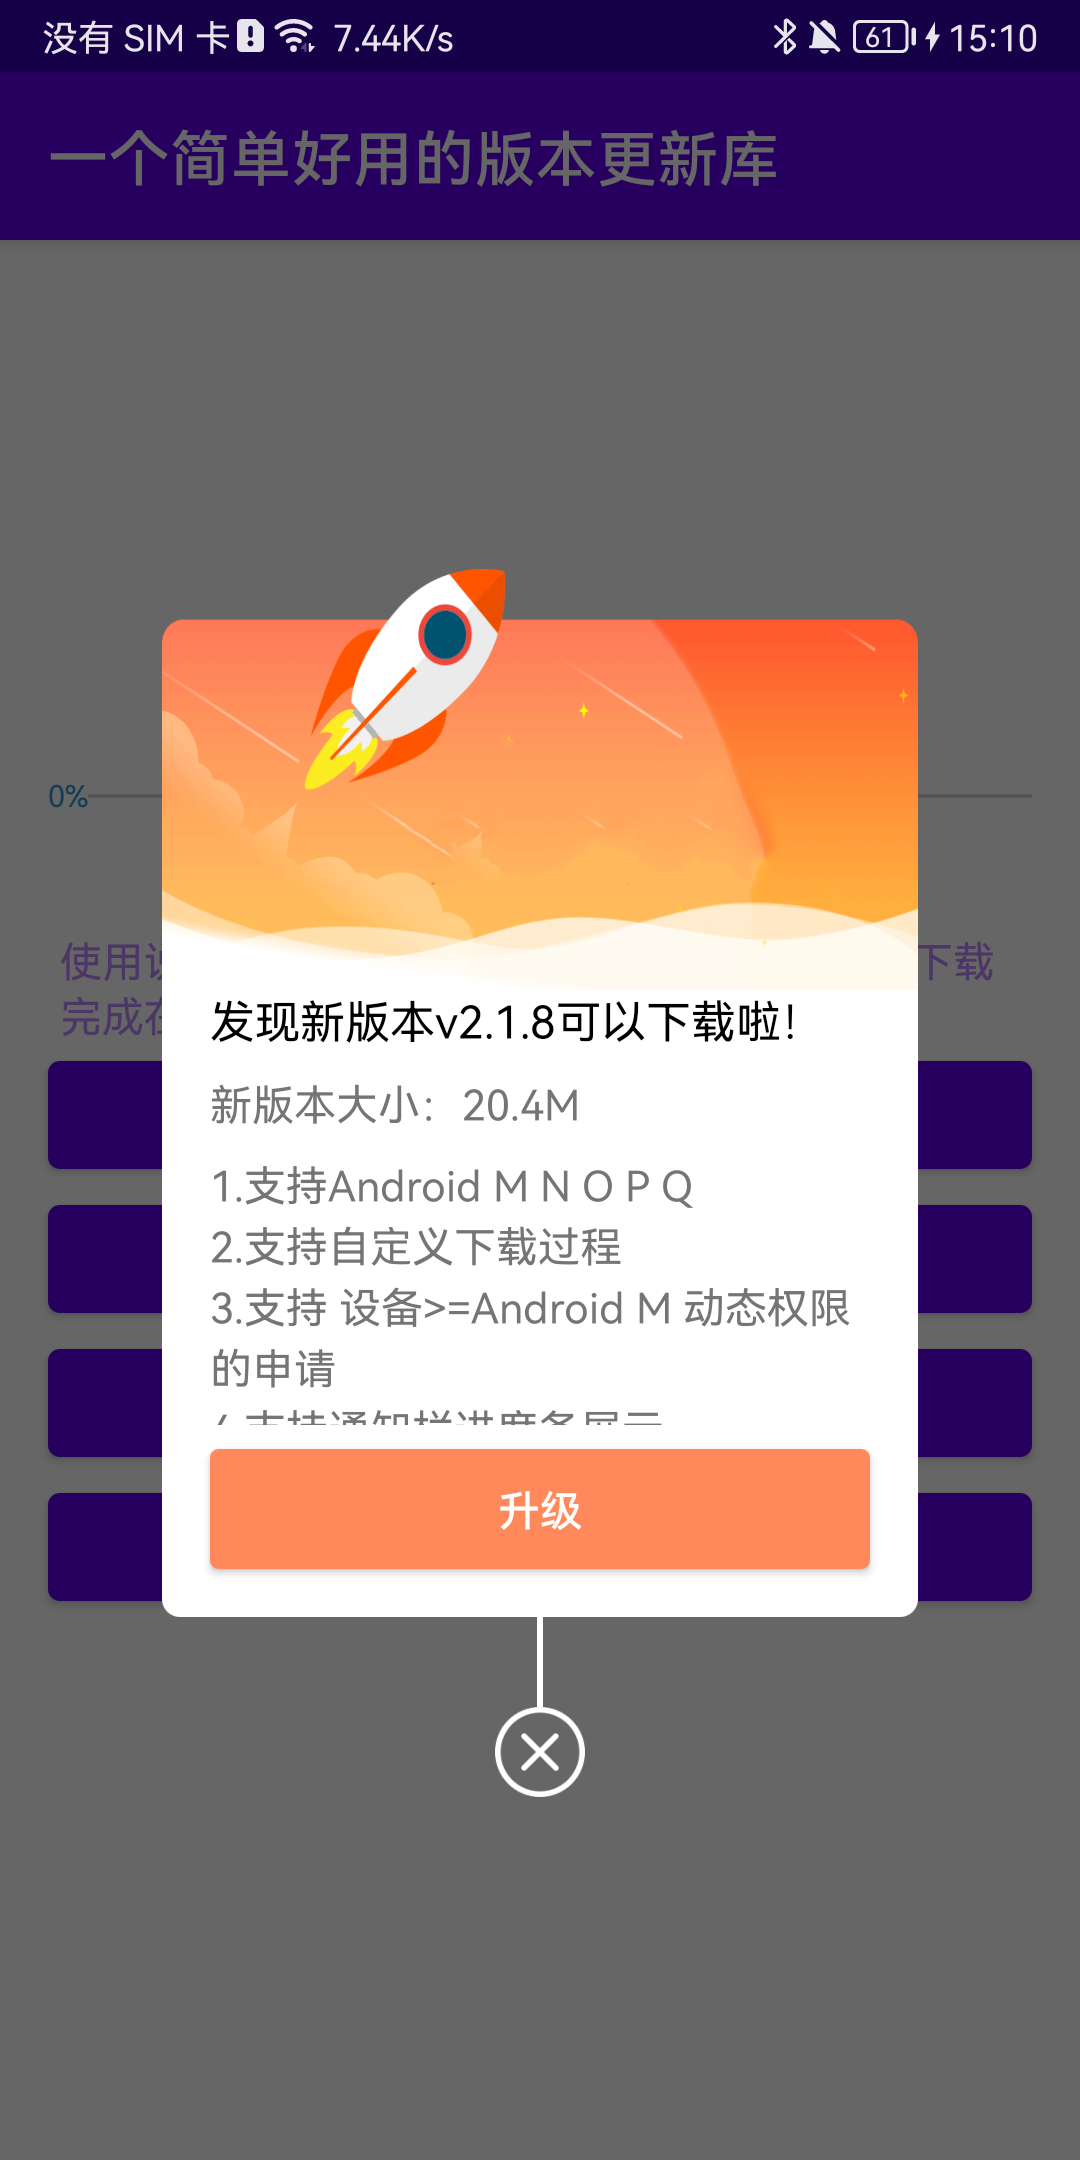
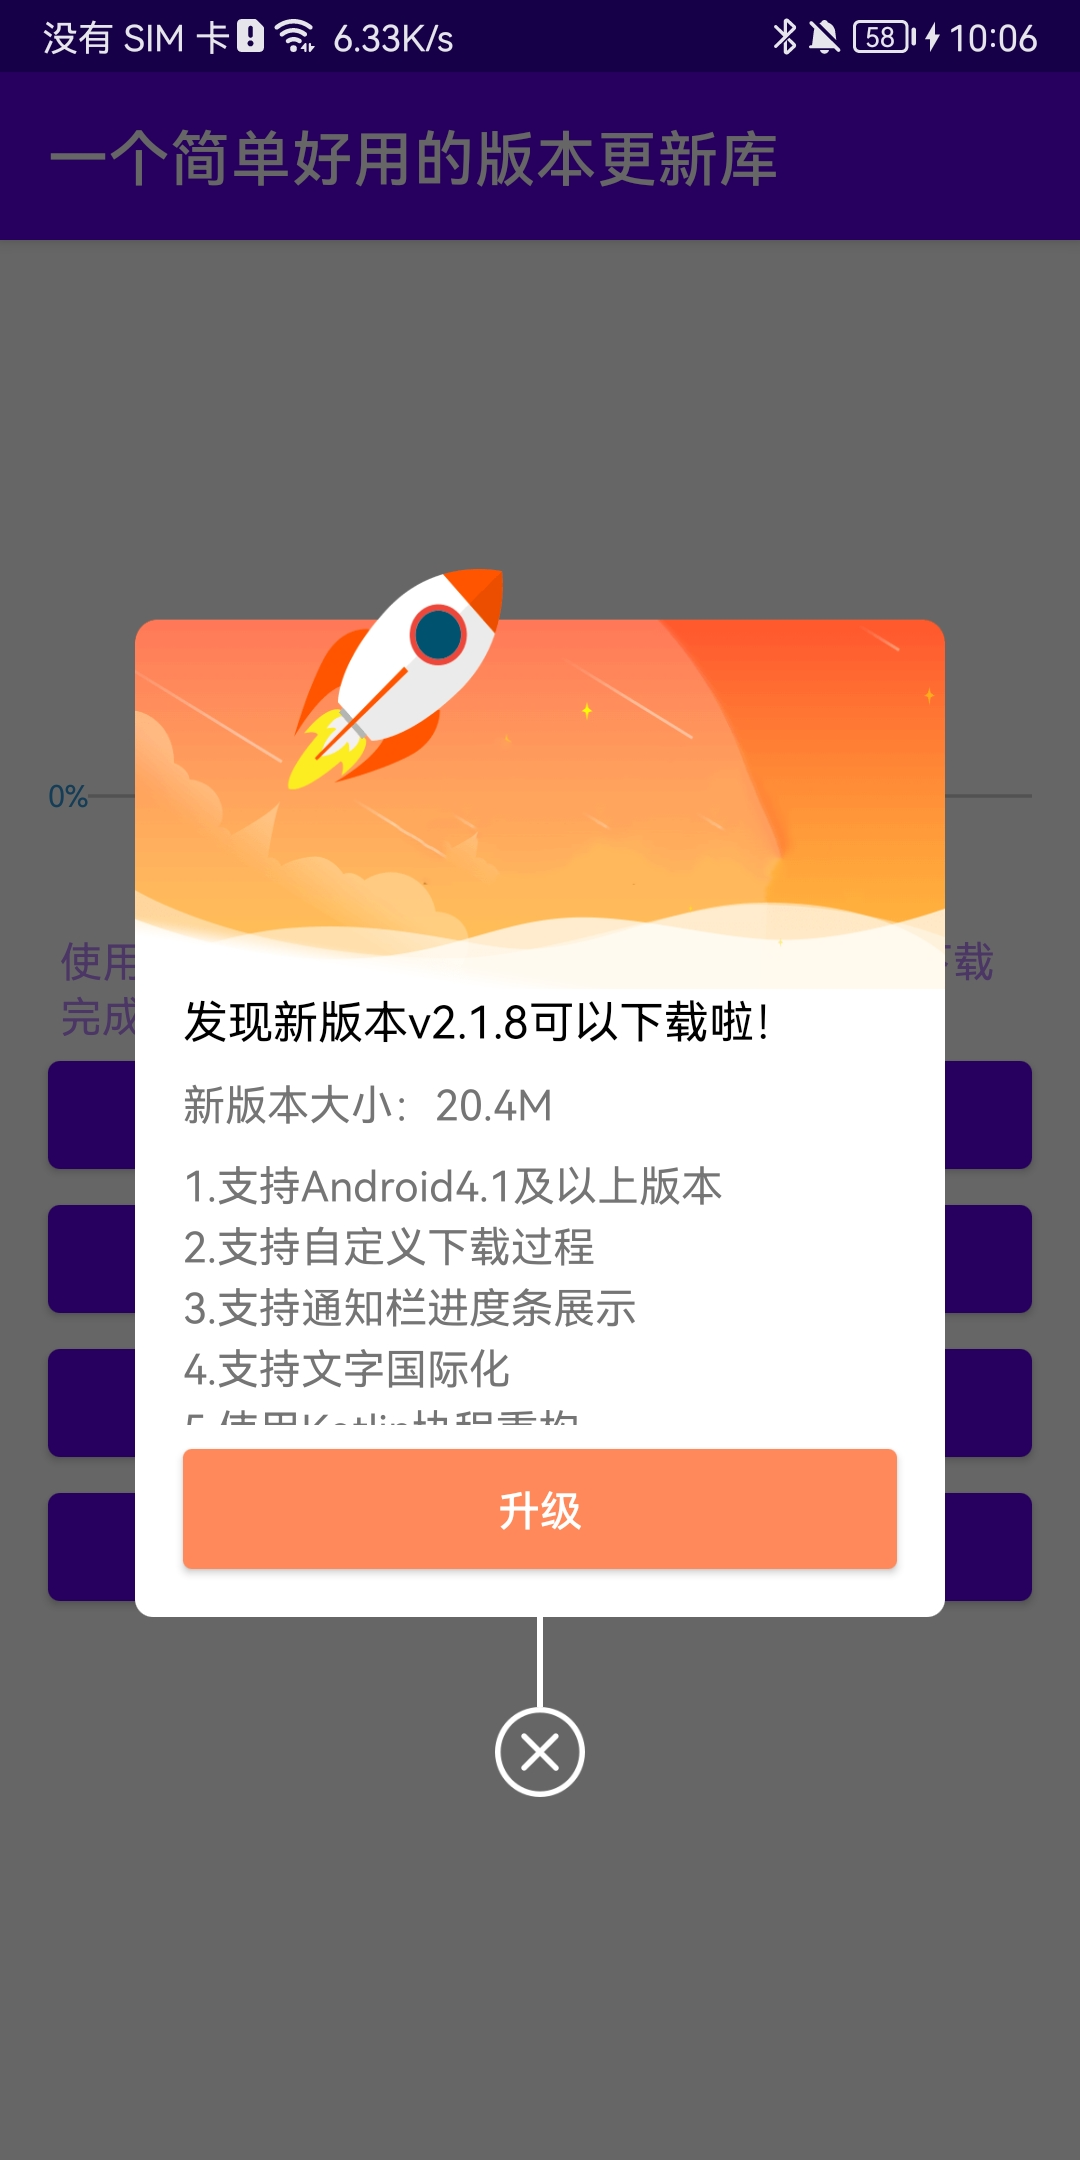
fix: optimization readme

diff --git a/README.md b/README.md
@@ -33,19 +33,18 @@ src="https://github.com/azhon/AppUpdate/blob/main/img/qq_group.png">
 
 ### 功能介绍
 
+* [x] 支持Kotlin
 * [x] 支持AndroidX
 * [x] 支持后台下载
 * [x] 支持强制更新
 * [x] 支持自定义下载过程
+* [x] 支持Android4.1及以上版本
 * [x] 支持通知栏进度条展示(或者自定义显示进度)
-* [x] 支持Android N
-* [x] 支持Android O
-* [x] 支持Android P
-* [x] 支持Android Q
 * [x] 支持中/英文双语（国际化）
 * [x] 支持自定义内置对话框样式
 * [x] 支持取消下载(如果发送了通知栏消息，则会移除)
 * [x] 支持下载完成 打开新版本后删除旧安装包文件
+* [x] 不需要申请存储权限
 * [x] 使用HttpURLConnection下载，未集成其他第三方框架
 
 ### Demo下载体验
@@ -121,7 +120,7 @@ val result = ApkUtil.deleteOldApk(this, "${externalCacheDir?.path}/appupdate.apk
 ```
 
 * 温馨提示：升级对话框中的内容是可以上下滑动的哦！
-* 如果需要实现自己一套下载过程，只需要继承`BaseHttpDownloadManager` 并使用listener更新进度
+* 如果需要实现自己一套下载过程，只需要继承`BaseHttpDownloadManager`
 
 ```java
 class MyDownload : BaseHttpDownloadManager() {}

diff --git a/README-EN.md b/README-EN.md
@@ -28,13 +28,11 @@
 
 ### Function introduction
 
+* [x] Support Kotlin
 * [x] Support AndroidX
 * [x] Support for custom download process
+* [x] Support Android 4.1 and above
 * [x] Support notification progress display (or custom display progress)
-* [x] Support Android N
-* [x] Support Android O
-* [x] Support Android P
-* [x] Support Android Q
 * [x] Support Chinese/English 
 * [x] Support for custom built-in dialog styles
 * [x] Support for canceling the download (if the notification bar message is sent, it will be removed)
@@ -99,7 +97,7 @@ val result = ApkUtil.deleteOldApk(this, "${externalCacheDir?.path}/appupdate.apk
 ```
 
 * Tips: The contents of the upgrade dialog can be swiped up and down！
-* If you need to implement your own set of download process, you only need to `extends` `BaseHttpDownloadManager` and update the progress with listener.
+* If you need to implement your own set of download process, you only need to `extends` `BaseHttpDownloadManager`.
 
 ```java
 class MyDownload : BaseHttpDownloadManager() {}
